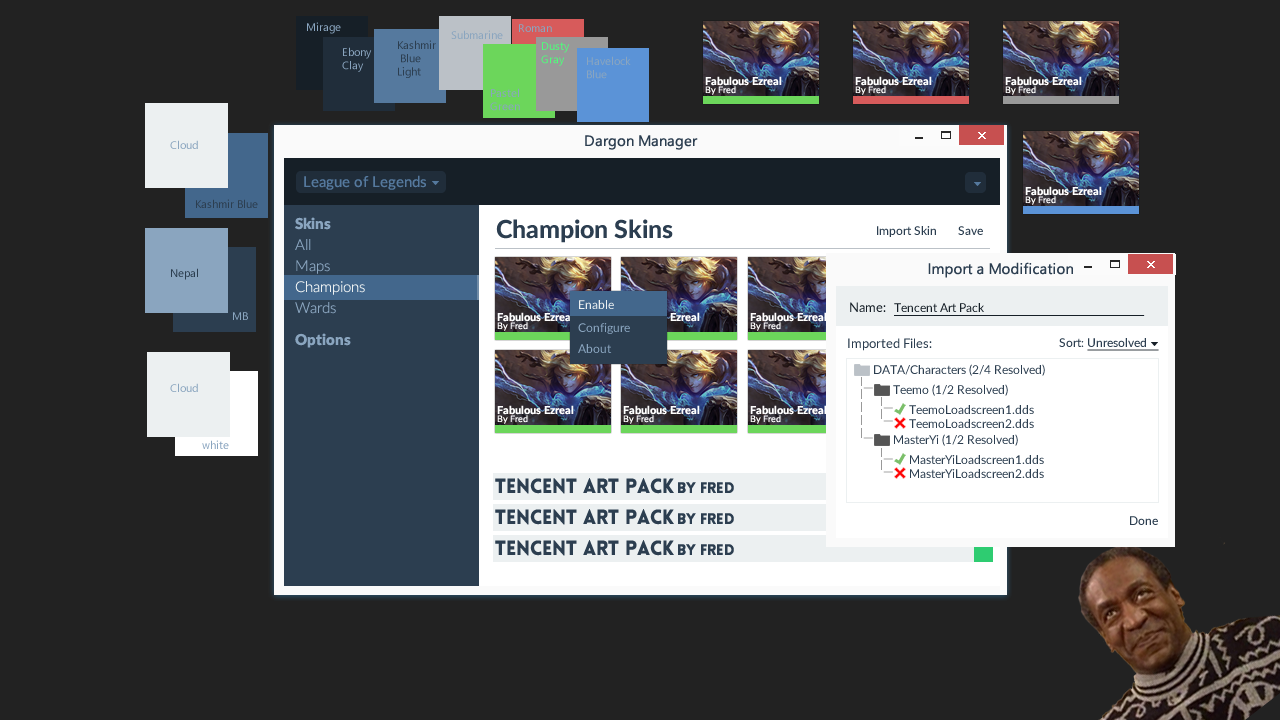
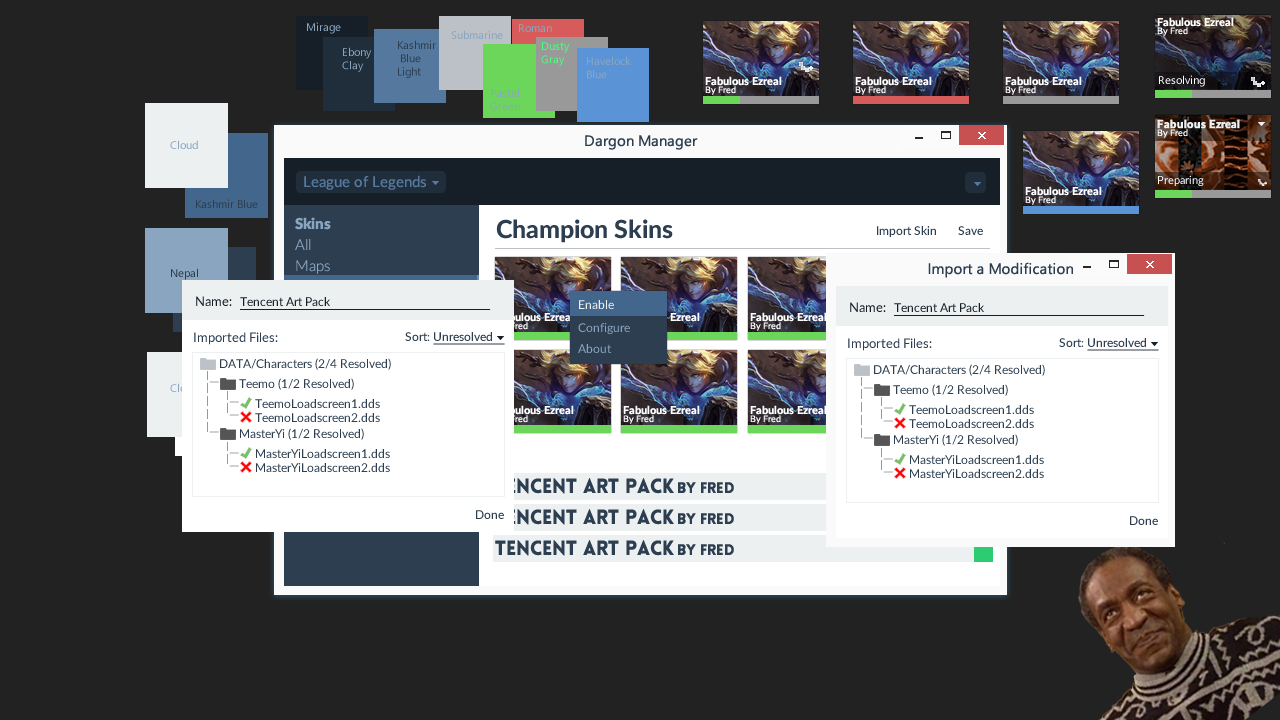
Added mouseover animation (incomplete) to dargon-client.

Changed region(s): [[0.125, 0.3667, 0.4062, 0.7639], [0.875, 0.0, 1.0, 0.275], [0.5625, 0.1222, 0.6562, 0.1528]]

diff --git a/dargon-client/Views/ModificationEntryView.xaml b/dargon-client/Views/ModificationEntryView.xaml
@@ -7,7 +7,7 @@
              xmlns:viewmodel="clr-namespace:Dargon.Client.ViewModels"
              mc:Ignorable="d" 
              MinWidth="116" MinHeight="83" Background="Red">
-   <Grid>
+   <Grid x:Name="ElementRoot">
       <Grid.RowDefinitions>
          <RowDefinition Height="75" />
          <RowDefinition Height="8" />
@@ -29,33 +29,130 @@
             </LinearGradientBrush>
          </Rectangle.Fill>
       </Rectangle>
-      <StackPanel Grid.Row="0" VerticalAlignment="Bottom" Margin="3,0,0,3">
-         <TextBlock FontFamily="Lato Heavy" FontSize="11" Foreground="White" Margin="0,0,0,-2" Text="{Binding Name, FallbackValue=__NAME__}"></TextBlock>
-         <StackPanel Orientation="Horizontal" Margin="0,0,0,-1">
-            <TextBlock FontFamily="Lato" FontSize="9" Foreground="White">By&#160;</TextBlock>
-            <TextBlock FontFamily="Lato" FontSize="9" Foreground="White" Text="{Binding Author, FallbackValue=__AUTHOR__}"></TextBlock>
-         </StackPanel>
-      </StackPanel>
-      <Rectangle Grid.Row="1">
-         <Rectangle.Style>
-            <Style TargetType="{x:Type Rectangle}">
-               <Setter Property="Fill" Value="Magenta"/>
+
+
+      <Grid VerticalAlignment="Top" Background="{DynamicResource ModificationHoverBackgroundBrush}">
+         <Grid.Style>
+            <Style TargetType="Grid">
+               <Setter Property="Opacity" Value="0"></Setter>
                <Style.Triggers>
-                  <DataTrigger Binding="{Binding Status}" Value="{x:Static viewmodel:ModificationStatus.Enabled}">
-                     <Setter Property="Fill" Value="{DynamicResource ModificationEnabledBrush}"/>
-                  </DataTrigger>
-                  <DataTrigger Binding="{Binding Status}" Value="{x:Static viewmodel:ModificationStatus.Disabled}">
-                  <Setter Property="Fill" Value="{DynamicResource ModificationDisabledBrush}"/>
-                  </DataTrigger>
-                  <DataTrigger Binding="{Binding Status}" Value="{x:Static viewmodel:ModificationStatus.Broken}">
-                     <Setter Property="Fill" Value="{DynamicResource ModificationBrokenBrush}"/>
-                  </DataTrigger>
-                  <DataTrigger Binding="{Binding Status}" Value="{x:Static viewmodel:ModificationStatus.UpdateAvailable}">
-                     <Setter Property="Fill" Value="{DynamicResource ModificationUpdateAvailableBrush}"/>
+                  <DataTrigger Binding="{Binding RelativeSource={RelativeSource AncestorType=local:ModificationEntryView}, Path=IsMouseOver}" Value="True" >
+                     <DataTrigger.EnterActions>
+                        <BeginStoryboard>
+                           <Storyboard>
+                              <DoubleAnimation Duration="0:0:0.2" To="1" Storyboard.TargetProperty="Opacity"/>
+                           </Storyboard>
+                        </BeginStoryboard>
+                     </DataTrigger.EnterActions>
+                     <DataTrigger.ExitActions>
+                        <BeginStoryboard>
+                           <Storyboard>
+                              <DoubleAnimation Duration="0:0:0.2" To="0" Storyboard.TargetProperty="Opacity"/>
+                           </Storyboard>
+                        </BeginStoryboard>
+                     </DataTrigger.ExitActions>
                   </DataTrigger>
                </Style.Triggers>
             </Style>
-         </Rectangle.Style>
-      </Rectangle>
+         </Grid.Style>
+         <StackPanel Grid.Row="0" Margin="3,0,0,3">
+            <TextBlock FontFamily="Lato Heavy" FontSize="11" Foreground="White" Margin="0,0,0,-2" Text="{Binding Name, FallbackValue=__NAME__}"></TextBlock>
+            <StackPanel Orientation="Horizontal" Margin="0,0,0,-1">
+               <TextBlock FontFamily="Lato" FontSize="9" Foreground="White">By&#160;</TextBlock>
+               <TextBlock FontFamily="Lato" FontSize="9" Foreground="White" Text="{Binding Author, FallbackValue=__AUTHOR__}"></TextBlock>
+            </StackPanel>
+         </StackPanel>
+      </Grid>
+
+      <Grid VerticalAlignment="Bottom">
+         <StackPanel Grid.Row="0" Margin="3,0,0,3">
+            <StackPanel.Style>
+               <Style TargetType="StackPanel">
+                  <Setter Property="Opacity" Value="1"></Setter>
+                  <Style.Triggers>
+                     <DataTrigger Binding="{Binding RelativeSource={RelativeSource AncestorType=local:ModificationEntryView}, Path=IsMouseOver}" Value="True" >
+                        <DataTrigger.EnterActions>
+                           <BeginStoryboard>
+                              <Storyboard>
+                                 <DoubleAnimation Duration="0:0:0.2" To="0" Storyboard.TargetProperty="Opacity"/>
+                              </Storyboard>
+                           </BeginStoryboard>
+                        </DataTrigger.EnterActions>
+                        <DataTrigger.ExitActions>
+                           <BeginStoryboard>
+                              <Storyboard>
+                                 <DoubleAnimation Duration="0:0:0.2" To="1" Storyboard.TargetProperty="Opacity"/>
+                              </Storyboard>
+                           </BeginStoryboard>
+                        </DataTrigger.ExitActions>
+                     </DataTrigger>
+                  </Style.Triggers>
+               </Style>
+            </StackPanel.Style>
+
+            <TextBlock FontFamily="Lato Heavy" FontSize="11" Foreground="White" Margin="0,0,0,-2" Text="{Binding Name, FallbackValue=__NAME__}"></TextBlock>
+            <StackPanel Orientation="Horizontal" Margin="0,0,0,-1">
+               <TextBlock FontFamily="Lato" FontSize="9" Foreground="White">By&#160;</TextBlock>
+               <TextBlock FontFamily="Lato" FontSize="9" Foreground="White" Text="{Binding Author, FallbackValue=__AUTHOR__}"></TextBlock>
+            </StackPanel>
+         </StackPanel>
+
+         <Border Grid.Row="0" VerticalAlignment="Stretch" Background="{DynamicResource ModificationHoverBackgroundBrush}">
+            <Border.Style>
+               <Style TargetType="Border">
+                  <Setter Property="Opacity" Value="0"></Setter>
+                  <Style.Triggers>
+                     <DataTrigger Binding="{Binding RelativeSource={RelativeSource AncestorType=local:ModificationEntryView}, Path=IsMouseOver}" Value="True" >
+                        <DataTrigger.EnterActions>
+                           <BeginStoryboard>
+                              <Storyboard>
+                                 <DoubleAnimation Duration="0:0:0.2" To="1" Storyboard.TargetProperty="Opacity"/>
+                              </Storyboard>
+                           </BeginStoryboard>
+                        </DataTrigger.EnterActions>
+                        <DataTrigger.ExitActions>
+                           <BeginStoryboard>
+                              <Storyboard>
+                                 <DoubleAnimation Duration="0:0:0.2" To="0" Storyboard.TargetProperty="Opacity"/>
+                              </Storyboard>
+                           </BeginStoryboard>
+                        </DataTrigger.ExitActions>
+                     </DataTrigger>
+                  </Style.Triggers>
+               </Style>
+            </Border.Style>
+            
+            <Grid Margin="3">
+               <Grid.ColumnDefinitions>
+                  <ColumnDefinition />
+                  <ColumnDefinition Width="Auto" />
+               </Grid.ColumnDefinitions>
+               <TextBlock Grid.Column="0" FontFamily="Lato Regular" FontSize="11" Foreground="White" Text="{Binding Harglbargl, FallbackValue=__Status__}" VerticalAlignment="Center"></TextBlock>
+               <Rectangle Grid.Column="1" Fill="Red" Width="10" Height="10" VerticalAlignment="Center"></Rectangle>
+            </Grid>
+         </Border>
+      </Grid>
+      <ProgressBar Value="50" BorderThickness="0" Grid.Row="1">
+         <ProgressBar.Style>
+            <Style TargetType="{x:Type ProgressBar}">
+               <Setter Property="Foreground" Value="Magenta"/>
+               <Setter Property="Background" Value="{DynamicResource SilverChaliceBrush}"/>
+               <Style.Triggers>
+                  <DataTrigger Binding="{Binding Status}" Value="{x:Static viewmodel:ModificationStatus.Enabled}">
+                     <Setter Property="Foreground" Value="{DynamicResource ModificationEnabledBrush}"/>
+                  </DataTrigger>
+                  <DataTrigger Binding="{Binding Status}" Value="{x:Static viewmodel:ModificationStatus.Disabled}">
+                     <Setter Property="Foreground" Value="{DynamicResource ModificationDisabledBrush}"/>
+                  </DataTrigger>
+                  <DataTrigger Binding="{Binding Status}" Value="{x:Static viewmodel:ModificationStatus.Broken}">
+                     <Setter Property="Foreground" Value="{DynamicResource ModificationBrokenBrush}"/>
+                  </DataTrigger>
+                  <DataTrigger Binding="{Binding Status}" Value="{x:Static viewmodel:ModificationStatus.UpdateAvailable}">
+                     <Setter Property="Foreground" Value="{DynamicResource ModificationUpdateAvailableBrush}"/>
+                  </DataTrigger>
+               </Style.Triggers>
+            </Style>
+         </ProgressBar.Style>
+      </ProgressBar>
    </Grid>
 </UserControl>

diff --git a/dargon-client/Views/ClientColors.xaml b/dargon-client/Views/ClientColors.xaml
@@ -39,9 +39,14 @@
 
    <Color A="255" R="236" G="240" B="241" x:Key="CloudColor" />
    <SolidColorBrush Color="{StaticResource CloudColor}" x:Key="CloudBrush" />
+   
+   <Color A="255" R="172" G="172" B="172" x:Key="SilverChaliceColor" />
+   <SolidColorBrush Color="{StaticResource SilverChaliceColor}" x:Key="SilverChaliceBrush" />
 
    <SolidColorBrush Color="{StaticResource RomanColor}" x:Key="ModificationBrokenBrush" />
    <SolidColorBrush Color="{StaticResource DustyGrayColor}" x:Key="ModificationDisabledBrush" />
    <SolidColorBrush Color="{StaticResource PastelGreenColor}" x:Key="ModificationEnabledBrush" />
    <SolidColorBrush Color="{StaticResource HavelockBlueColor}" x:Key="ModificationUpdateAvailableBrush" />
+   <Color A="74" R="0" G="0" B="0" x:Key="ModificationHoverBackgroundColor" />
+   <SolidColorBrush Color="{StaticResource ModificationHoverBackgroundColor}" x:Key="ModificationHoverBackgroundBrush" />
 </ResourceDictionary>
